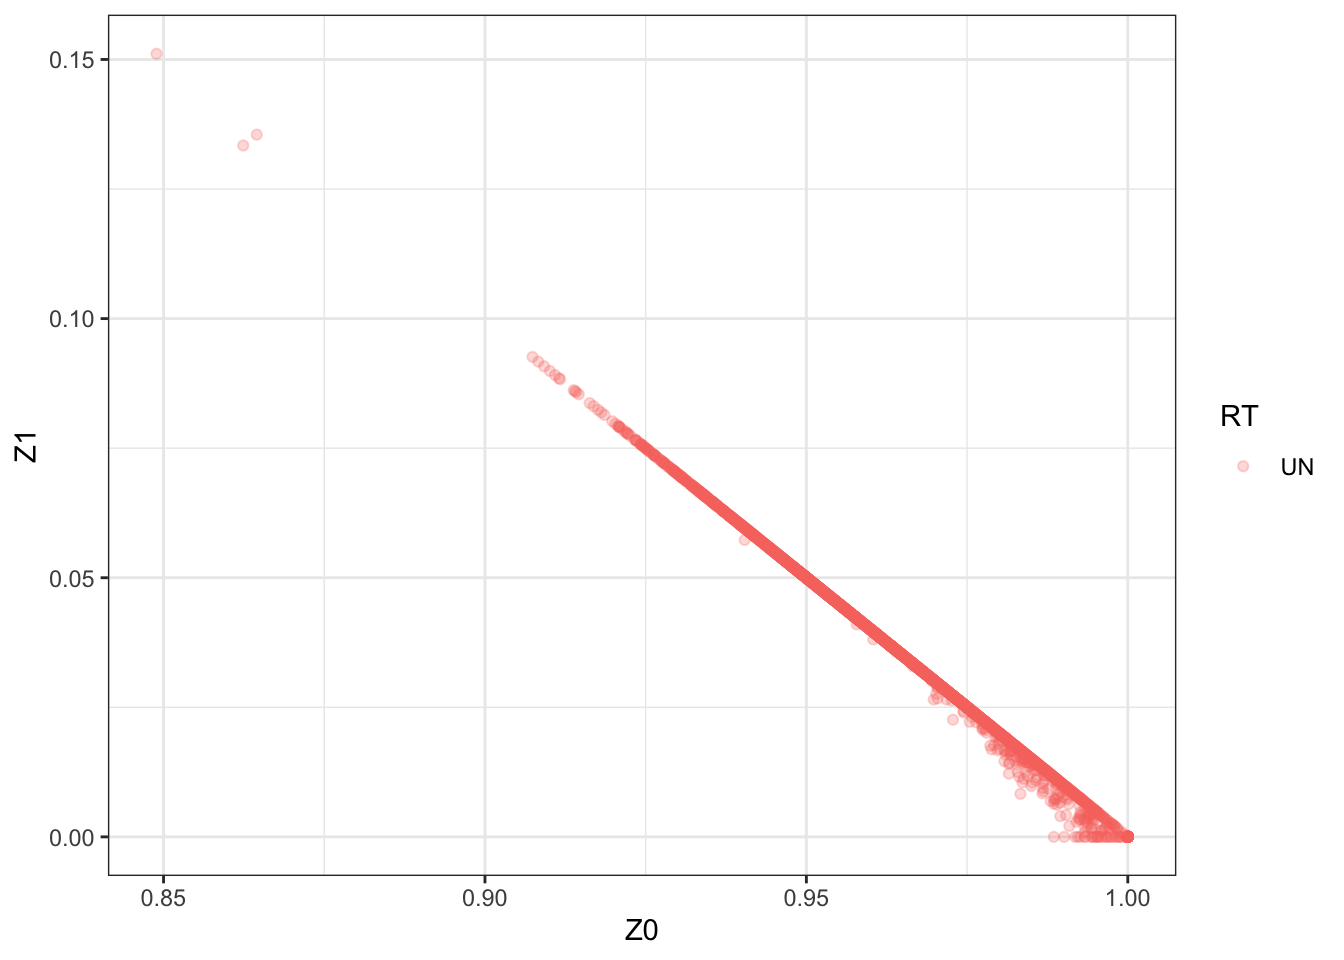
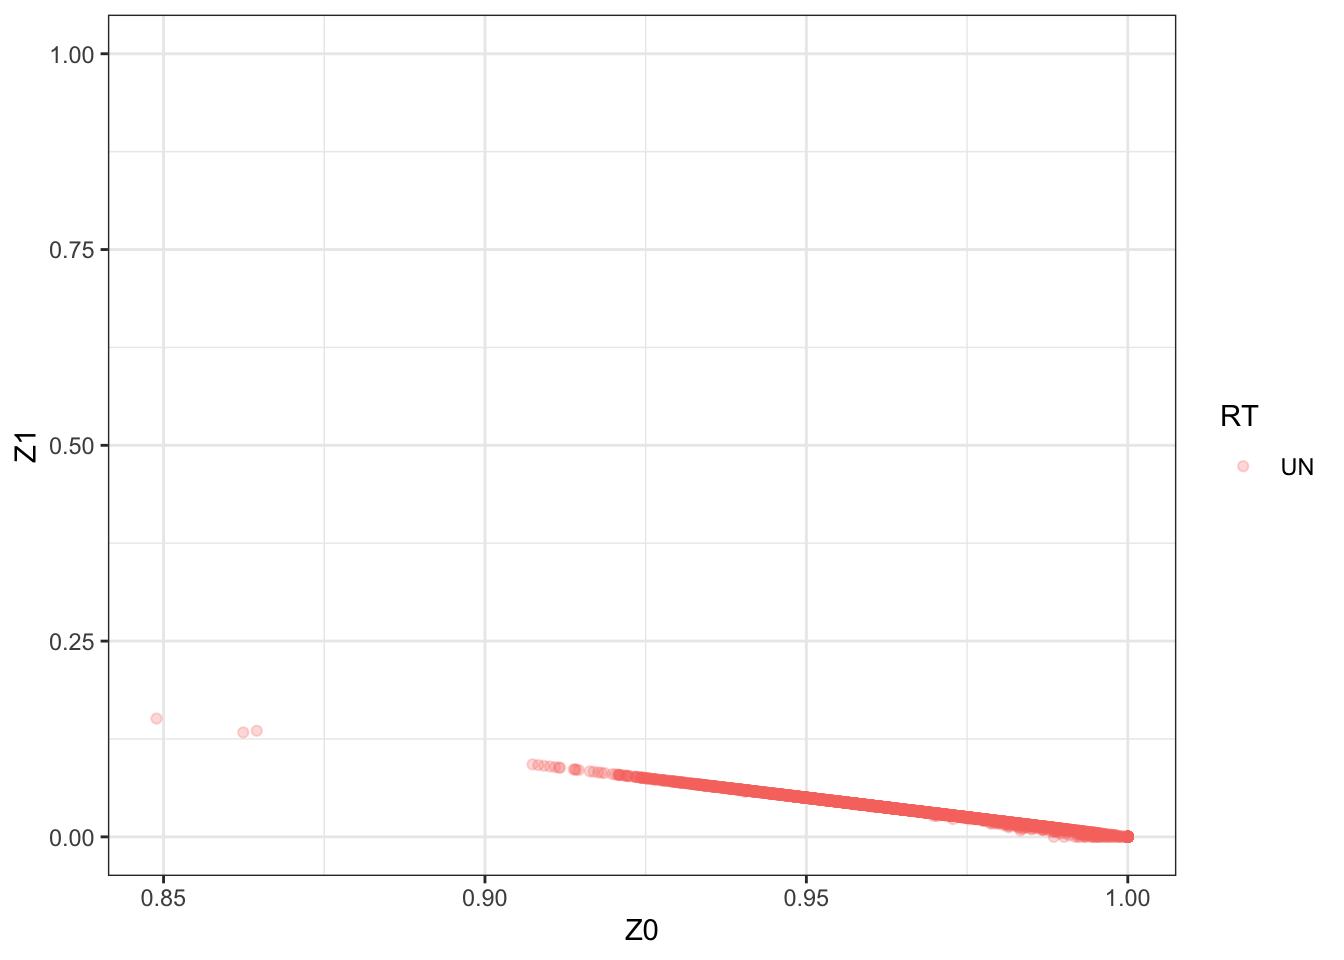
Build site.

diff --git a/docs/IBD_plots.html b/docs/IBD_plots.html
@@ -504,16 +504,16 @@ This reproducible <a href="http://rmarkdown.rstudio.com">R Markdown</a> analysis
 <div class="panel panel-default">
 <div class="panel-heading">
 <p class="panel-title">
-<a data-toggle="collapse" data-parent="#workflowr-checks" href="#strongRepositoryversionstrongahrefhttpsgithubcomrheapragGWASQCtree13df39028cef8c82de47b6df1e5fdd6dd0772a74targetblank13df390a"> <span class="glyphicon glyphicon-ok text-success" aria-hidden="true"></span> <strong>Repository version:</strong> <a href="https://github.com/rheaprag/GWAS_QC/tree/13df39028cef8c82de47b6df1e5fdd6dd0772a74" target="_blank">13df390</a> </a>
+<a data-toggle="collapse" data-parent="#workflowr-checks" href="#strongRepositoryversionstrongahrefhttpsgithubcomrheapragGWASQCtreed2cf31b3b0caeaece49917428ef15b8c6ef0a4b9targetblankd2cf31ba"> <span class="glyphicon glyphicon-ok text-success" aria-hidden="true"></span> <strong>Repository version:</strong> <a href="https://github.com/rheaprag/GWAS_QC/tree/d2cf31b3b0caeaece49917428ef15b8c6ef0a4b9" target="_blank">d2cf31b</a> </a>
 </p>
 </div>
[2 lines of base64/hex data omitted]
 <div class="panel-body">
 <p>
 Great! You are using Git for version control. Tracking code development and connecting the code version to the results is critical for reproducibility.
 </p>
 <p>
-The results in this page were generated with repository version <a href="https://github.com/rheaprag/GWAS_QC/tree/13df39028cef8c82de47b6df1e5fdd6dd0772a74" target="_blank">13df390</a>. See the <em>Past versions</em> tab to see a history of the changes made to the R Markdown and HTML files.
+The results in this page were generated with repository version <a href="https://github.com/rheaprag/GWAS_QC/tree/d2cf31b3b0caeaece49917428ef15b8c6ef0a4b9" target="_blank">d2cf31b</a>. See the <em>Past versions</em> tab to see a history of the changes made to the R Markdown and HTML files.
 </p>
 <p>
 Note that you need to be careful to ensure that all relevant files for the analysis have been committed to Git prior to generating the results (you can use <code>wflow_publish</code> or <code>wflow_git_commit</code>). workflowr only checks the R Markdown file, but you know if there are other scripts or data files that it depends on. Below is the status of the Git repository when the results were generated:
@@ -646,6 +646,40 @@ Message
 Rmd
 </td>
 <td>
+<a href="https://github.com/rheaprag/GWAS_QC/blob/d2cf31b3b0caeaece49917428ef15b8c6ef0a4b9/analysis/IBD_plots.Rmd" target="_blank">d2cf31b</a>
+</td>
+<td>
+rheaprag
+</td>
+<td>
+2020-11-29
+</td>
+<td>
+Fix scale on IBD plots
+</td>
+</tr>
+<tr>
+<td>
+html
+</td>
+<td>
+<a href="https://rawcdn.githack.com/rheaprag/GWAS_QC/e232a3a6963151806d9eceffa898172a60a720a8/docs/IBD_plots.html" target="_blank">e232a3a</a>
+</td>
+<td>
+rheaprag
+</td>
+<td>
+2020-11-29
+</td>
+<td>
+Build site.
+</td>
+</tr>
+<tr>
+<td>
+Rmd
+</td>
+<td>
 <a href="https://github.com/rheaprag/GWAS_QC/blob/13df39028cef8c82de47b6df1e5fdd6dd0772a74/analysis/IBD_plots.Rmd" target="_blank">13df390</a>
 </td>
 <td>
@@ -743,7 +777,7 @@ Add populations to files
 <pre><code>./plink --bfile hapmap_EastAsia --extract hapmap3_02_1_EastAsia.prune.in --genome --out hapmap3_02_2_EastAsia</code></pre>
 <pre><code>library(&quot;ggplot2&quot;)
 ibd &lt;- read.table(&quot;hapmap3_02_2_EastAsia.genome&quot;, header = T)
-ggplot(data=ibd,aes(x=Z0,y=Z1))+geom_point(alpha=1/4)+theme_bw()</code></pre>
+ggplot(data=ibd,aes(x=Z0,y=Z1,color=RT))+geom_point(alpha=1/4)+theme_bw()+ylim(0.00, 1.00)</code></pre>
 <p><img src="figure/IBD_plots.Rmd/unnamed-chunk-1-1.png" width="672" style="display: block; margin: auto;" /></p>
 <p>
 <button type="button" class="btn btn-default btn-xs btn-workflowr btn-workflowr-fig" data-toggle="collapse" data-target="#fig-unnamed-chunk-1-1">
@@ -769,6 +803,17 @@ Date
 <tbody>
 <tr>
 <td>
+<a href="https://github.com/rheaprag/GWAS_QC/blob/e232a3a6963151806d9eceffa898172a60a720a8/docs/figure/IBD_plots.Rmd/unnamed-chunk-1-1.png" target="_blank">e232a3a</a>
+</td>
+<td>
+rheaprag
+</td>
+<td>
+2020-11-29
+</td>
+</tr>
+<tr>
+<td>
 <a href="https://github.com/rheaprag/GWAS_QC/blob/cf226bcd467a9452005ac2d5c374c815faa604b0/docs/figure/IBD_plots.Rmd/unnamed-chunk-1-1.png" target="_blank">cf226bc</a>
 </td>
 <td>
@@ -789,7 +834,7 @@ rheaprag
 <pre><code>./plink --bfile hapmap_Utah --extract hapmap3_02_1_Utah.prune.in --genome --out hapmap3_02_2_Utah</code></pre>
 <pre><code>library(&quot;ggplot2&quot;)
 ibd &lt;- read.table(&quot;hapmap3_02_2_Utah.genome&quot;, header = T)
-ggplot(data=ibd,aes(x=Z0,y=Z1,color=RT))+geom_point(alpha=1/4)+theme_bw()</code></pre>
+ggplot(data=ibd,aes(x=Z0,y=Z1,color=RT))+geom_point(alpha=1/4)+theme_bw()+ylim(0.00, 1.00)</code></pre>
 <p><img src="figure/IBD_plots.Rmd/unnamed-chunk-2-1.png" width="672" style="display: block; margin: auto;" /></p>
 <p>
 <button type="button" class="btn btn-default btn-xs btn-workflowr btn-workflowr-fig" data-toggle="collapse" data-target="#fig-unnamed-chunk-2-1">
@@ -815,6 +860,17 @@ Date
 <tbody>
 <tr>
 <td>
+<a href="https://github.com/rheaprag/GWAS_QC/blob/e232a3a6963151806d9eceffa898172a60a720a8/docs/figure/IBD_plots.Rmd/unnamed-chunk-2-1.png" target="_blank">e232a3a</a>
+</td>
+<td>
+rheaprag
+</td>
+<td>
+2020-11-29
+</td>
+</tr>
+<tr>
+<td>
 <a href="https://github.com/rheaprag/GWAS_QC/blob/cf226bcd467a9452005ac2d5c374c815faa604b0/docs/figure/IBD_plots.Rmd/unnamed-chunk-2-1.png" target="_blank">cf226bc</a>
 </td>
 <td>
@@ -835,7 +891,7 @@ rheaprag
 <pre><code>./plink --bfile hapmap_ColoradoChinese --extract hapmap3_02_1_ColoradoChinese.prune.in --genome --out hapmap3_02_2_ColoradoChinese</code></pre>
 <pre><code>library(&quot;ggplot2&quot;)
 ibd &lt;- read.table(&quot;hapmap3_02_2_ColoradoChinese.genome&quot;, header = T)
-ggplot(data=ibd,aes(x=Z0,y=Z1,color=RT))+geom_point(alpha=1/4)+theme_bw()</code></pre>
+ggplot(data=ibd,aes(x=Z0,y=Z1,color=RT))+geom_point(alpha=1/4)+theme_bw()+ylim(0.00, 1.00)</code></pre>
 <p><img src="figure/IBD_plots.Rmd/unnamed-chunk-3-1.png" width="672" style="display: block; margin: auto;" /></p>
 <p>
 <button type="button" class="btn btn-default btn-xs btn-workflowr btn-workflowr-fig" data-toggle="collapse" data-target="#fig-unnamed-chunk-3-1">
@@ -861,6 +917,17 @@ Date
 <tbody>
 <tr>
 <td>
+<a href="https://github.com/rheaprag/GWAS_QC/blob/e232a3a6963151806d9eceffa898172a60a720a8/docs/figure/IBD_plots.Rmd/unnamed-chunk-3-1.png" target="_blank">e232a3a</a>
+</td>
+<td>
+rheaprag
+</td>
+<td>
+2020-11-29
+</td>
+</tr>
+<tr>
+<td>
 <a href="https://github.com/rheaprag/GWAS_QC/blob/cf226bcd467a9452005ac2d5c374c815faa604b0/docs/figure/IBD_plots.Rmd/unnamed-chunk-3-1.png" target="_blank">cf226bc</a>
 </td>
 <td>
@@ -881,7 +948,7 @@ rheaprag
 <pre><code>./plink --bfile hapmap_Gujarati --extract hapmap3_02_1_Gujarati.prune.in --genome --out hapmap3_02_2_Gujarati</code></pre>
 <pre><code>library(&quot;ggplot2&quot;)
 ibd &lt;- read.table(&quot;hapmap3_02_2_Gujarati.genome&quot;, header = T)
-ggplot(data=ibd,aes(x=Z0,y=Z1,color=RT))+geom_point(alpha=1/4)+theme_bw()</code></pre>
+ggplot(data=ibd,aes(x=Z0,y=Z1,color=RT))+geom_point(alpha=1/4)+theme_bw()+ylim(0.00, 1.00)</code></pre>
 <p><img src="figure/IBD_plots.Rmd/unnamed-chunk-4-1.png" width="672" style="display: block; margin: auto;" /></p>
 <p>
 <button type="button" class="btn btn-default btn-xs btn-workflowr btn-workflowr-fig" data-toggle="collapse" data-target="#fig-unnamed-chunk-4-1">
@@ -907,6 +974,17 @@ Date
 <tbody>
 <tr>
 <td>
+<a href="https://github.com/rheaprag/GWAS_QC/blob/e232a3a6963151806d9eceffa898172a60a720a8/docs/figure/IBD_plots.Rmd/unnamed-chunk-4-1.png" target="_blank">e232a3a</a>
+</td>
+<td>
+rheaprag
+</td>
+<td>
+2020-11-29
+</td>
+</tr>
+<tr>
+<td>
 <a href="https://github.com/rheaprag/GWAS_QC/blob/cf226bcd467a9452005ac2d5c374c815faa604b0/docs/figure/IBD_plots.Rmd/unnamed-chunk-4-1.png" target="_blank">cf226bc</a>
 </td>
 <td>
@@ -927,7 +1005,7 @@ rheaprag
 <pre><code>./plink --bfile hapmap_Mexican --extract hapmap3_02_1_Mexican.prune.in --genome --out hapmap3_02_2_Mexican</code></pre>
 <pre><code>library(&quot;ggplot2&quot;)
 ibd &lt;- read.table(&quot;hapmap3_02_2_Mexican.genome&quot;, header = T)
-ggplot(data=ibd,aes(x=Z0,y=Z1,color=RT))+geom_point(alpha=1/4)+theme_bw()</code></pre>
+ggplot(data=ibd,aes(x=Z0,y=Z1,color=RT))+geom_point(alpha=1/4)+theme_bw()+ylim(0.00, 1.00)</code></pre>
 <p><img src="figure/IBD_plots.Rmd/unnamed-chunk-5-1.png" width="672" style="display: block; margin: auto;" /></p>
 <p>
 <button type="button" class="btn btn-default btn-xs btn-workflowr btn-workflowr-fig" data-toggle="collapse" data-target="#fig-unnamed-chunk-5-1">
@@ -953,6 +1031,17 @@ Date
 <tbody>
 <tr>
 <td>
+<a href="https://github.com/rheaprag/GWAS_QC/blob/e232a3a6963151806d9eceffa898172a60a720a8/docs/figure/IBD_plots.Rmd/unnamed-chunk-5-1.png" target="_blank">e232a3a</a>
+</td>
+<td>
+rheaprag
+</td>
+<td>
+2020-11-29
+</td>
+</tr>
+<tr>
+<td>
 <a href="https://github.com/rheaprag/GWAS_QC/blob/cf226bcd467a9452005ac2d5c374c815faa604b0/docs/figure/IBD_plots.Rmd/unnamed-chunk-5-1.png" target="_blank">cf226bc</a>
 </td>
 <td>
@@ -973,7 +1062,7 @@ rheaprag
 <pre><code>./plink --bfile hapmap_Toscans --extract hapmap3_02_1_Toscans.prune.in --genome --out hapmap3_02_2_Toscans</code></pre>
 <pre><code>library(&quot;ggplot2&quot;)
 ibd &lt;- read.table(&quot;hapmap3_02_2_Toscans.genome&quot;, header = T)
-ggplot(data=ibd,aes(x=Z0,y=Z1,color=RT))+geom_point(alpha=1/4)+theme_bw()</code></pre>
+ggplot(data=ibd,aes(x=Z0,y=Z1,color=RT))+geom_point(alpha=1/4)+theme_bw()+ylim(0.00, 1.00)</code></pre>
 <p><img src="figure/IBD_plots.Rmd/unnamed-chunk-6-1.png" width="672" style="display: block; margin: auto;" /></p>
 <p>
 <button type="button" class="btn btn-default btn-xs btn-workflowr btn-workflowr-fig" data-toggle="collapse" data-target="#fig-unnamed-chunk-6-1">
@@ -997,6 +1086,17 @@ Date
 </tr>
 </thead>
 <tbody>
+<tr>
+<td>
+<a href="https://github.com/rheaprag/GWAS_QC/blob/e232a3a6963151806d9eceffa898172a60a720a8/docs/figure/IBD_plots.Rmd/unnamed-chunk-6-1.png" target="_blank">e232a3a</a>
+</td>
+<td>
+rheaprag
+</td>
+<td>
+2020-11-29
+</td>
+</tr>
 <tr>
 <td>
 <a href="https://github.com/rheaprag/GWAS_QC/blob/cf226bcd467a9452005ac2d5c374c815faa604b0/docs/figure/IBD_plots.Rmd/unnamed-chunk-6-1.png" target="_blank">cf226bc</a>

diff --git a/docs/02-RelatednessFiltering.html b/docs/02-RelatednessFiltering.html
@@ -504,16 +504,16 @@ This reproducible <a href="http://rmarkdown.rstudio.com">R Markdown</a> analysis
 <div class="panel panel-default">
 <div class="panel-heading">
 <p class="panel-title">
-<a data-toggle="collapse" data-parent="#workflowr-checks" href="#strongRepositoryversionstrongahrefhttpsgithubcomrheapragGWASQCtree13df39028cef8c82de47b6df1e5fdd6dd0772a74targetblank13df390a"> <span class="glyphicon glyphicon-ok text-success" aria-hidden="true"></span> <strong>Repository version:</strong> <a href="https://github.com/rheaprag/GWAS_QC/tree/13df39028cef8c82de47b6df1e5fdd6dd0772a74" target="_blank">13df390</a> </a>
+<a data-toggle="collapse" data-parent="#workflowr-checks" href="#strongRepositoryversionstrongahrefhttpsgithubcomrheapragGWASQCtreed2cf31b3b0caeaece49917428ef15b8c6ef0a4b9targetblankd2cf31ba"> <span class="glyphicon glyphicon-ok text-success" aria-hidden="true"></span> <strong>Repository version:</strong> <a href="https://github.com/rheaprag/GWAS_QC/tree/d2cf31b3b0caeaece49917428ef15b8c6ef0a4b9" target="_blank">d2cf31b</a> </a>
 </p>
 </div>
[2 lines of base64/hex data omitted]
 <div class="panel-body">
 <p>
 Great! You are using Git for version control. Tracking code development and connecting the code version to the results is critical for reproducibility.
 </p>
 <p>
-The results in this page were generated with repository version <a href="https://github.com/rheaprag/GWAS_QC/tree/13df39028cef8c82de47b6df1e5fdd6dd0772a74" target="_blank">13df390</a>. See the <em>Past versions</em> tab to see a history of the changes made to the R Markdown and HTML files.
+The results in this page were generated with repository version <a href="https://github.com/rheaprag/GWAS_QC/tree/d2cf31b3b0caeaece49917428ef15b8c6ef0a4b9" target="_blank">d2cf31b</a>. See the <em>Past versions</em> tab to see a history of the changes made to the R Markdown and HTML files.
 </p>
 <p>
 Note that you need to be careful to ensure that all relevant files for the analysis have been committed to Git prior to generating the results (you can use <code>wflow_publish</code> or <code>wflow_git_commit</code>). workflowr only checks the R Markdown file, but you know if there are other scripts or data files that it depends on. Below is the status of the Git repository when the results were generated:
@@ -641,6 +641,40 @@ Message
 </tr>
 </thead>
 <tbody>
+<tr>
+<td>
+Rmd
+</td>
+<td>
+<a href="https://github.com/rheaprag/GWAS_QC/blob/d2cf31b3b0caeaece49917428ef15b8c6ef0a4b9/analysis/02-RelatednessFiltering.Rmd" target="_blank">d2cf31b</a>
+</td>
+<td>
+rheaprag
+</td>
+<td>
+2020-11-29
+</td>
+<td>
+Fix scale on IBD plots
+</td>
+</tr>
+<tr>
+<td>
+html
+</td>
+<td>
+<a href="https://rawcdn.githack.com/rheaprag/GWAS_QC/e232a3a6963151806d9eceffa898172a60a720a8/docs/02-RelatednessFiltering.html" target="_blank">e232a3a</a>
+</td>
+<td>
+rheaprag
+</td>
+<td>
+2020-11-29
+</td>
+<td>
+Build site.
+</td>
+</tr>
 <tr>
 <td>
 Rmd
@@ -1170,7 +1204,7 @@ Add 02 analysis
 <p>In order to check the IBD:</p>
 <pre><code>library(&quot;ggplot2&quot;)
 ibd &lt;- read.table(&quot;hapmap3_02_2_African.genome&quot;, header = T)
-ggplot(data=ibd,aes(x=Z0,y=Z1,color=RT))+geom_point(alpha=1/4)+theme_bw()</code></pre>
+ggplot(data=ibd,aes(x=Z0,y=Z1,color=RT))+geom_point(alpha=1/4)+theme_bw()+ylim(0.00, 1.00)</code></pre>
 <p><img src="figure/02-RelatednessFiltering.Rmd/unnamed-chunk-1-1.png" width="672" style="display: block; margin: auto;" /></p>
 <p>
 <button type="button" class="btn btn-default btn-xs btn-workflowr btn-workflowr-fig" data-toggle="collapse" data-target="#fig-unnamed-chunk-1-1">
@@ -1194,6 +1228,17 @@ Date
 </tr>
 </thead>
 <tbody>
+<tr>
+<td>
+<a href="https://github.com/rheaprag/GWAS_QC/blob/e232a3a6963151806d9eceffa898172a60a720a8/docs/figure/02-RelatednessFiltering.Rmd/unnamed-chunk-1-1.png" target="_blank">e232a3a</a>
+</td>
+<td>
+rheaprag
+</td>
+<td>
+2020-11-29
+</td>
+</tr>
 <tr>
 <td>
 <a href="https://github.com/rheaprag/GWAS_QC/blob/1ce1285d06da6cd50ec92dc1c27f133f1c5f98ee/docs/figure/02-RelatednessFiltering.Rmd/unnamed-chunk-1-1.png" target="_blank">1ce1285</a>
@@ -1254,32 +1299,6 @@ rheaprag
 <li><p>hapmap3_02_3.het</p></li>
 <li><p>hapmap3_02_3.hh</p></li>
 <li><p>hapmap3_02_3.log</p></li>
-</ul>
-</div>
-</div>
-<div id="ld-prune-snps-from-bfiles" class="section level2">
-<h2>4. LD prune SNPs from bfiles</h2>
-<pre><code>./plink --bed hapmap3_5.bed --bim hapmap3_5.bim --fam hapmap3_5.fam --extract hapmap3.prune.in --make-bed --out hapmap3_02_4</code></pre>
-<div id="files-created-in-step-4" class="section level3">
-<h3>Files created in Step 4:</h3>
-<ul>
-<li><p>hapmap3_02_4.bed</p></li>
-<li><p>hapmap3_02_4.bim</p></li>
-<li><p>hapmap3_02_4.fam</p></li>
-<li><p>hapmap3_02_4.hh</p></li>
-<li><p>hapmap3_02_4.log</p></li>
-</ul>
-</div>
-</div>
-<div id="remove-dumplicate-or-related-samples-regenerate-heterozygosity-estimates-from-the-filtered-samples" class="section level2">
-<h2>5. Remove dumplicate or related samples &amp; regenerate heterozygosity estimates from the filtered samples</h2>
-<pre><code>./plink --bfile hapmap3_02_4 -het --out hapmap3_02_5</code></pre>
-<div id="files-created-in-step-5" class="section level3">
-<h3>Files created in Step 5:</h3>
-<ul>
-<li><p>hapmap3_02_5.het</p></li>
-<li><p>hapmap3_02_5.hh</p></li>
-<li><p>hapmap3_02_5.log</p></li>
 </ul>
 <br>
 <p>
